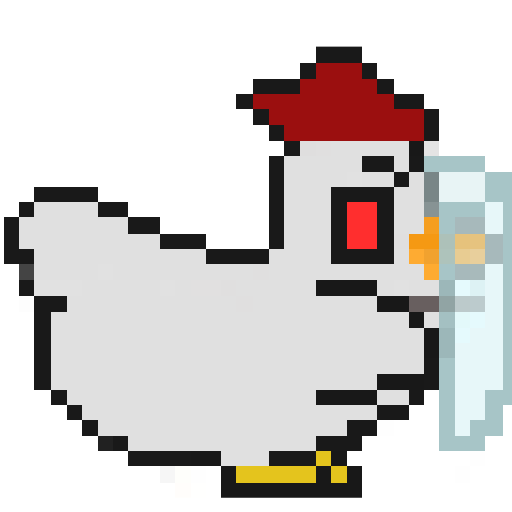
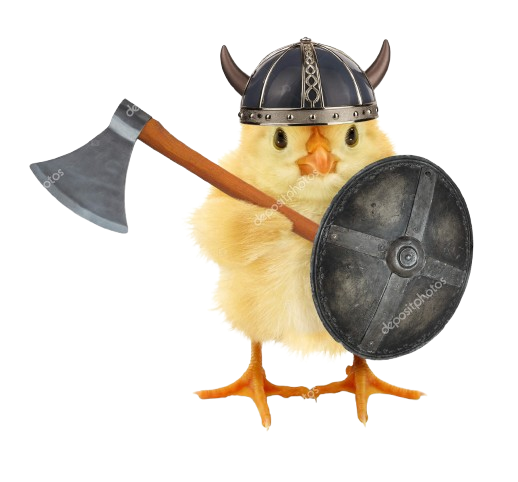
pause + fin de partie

diff --git a/src/main/java/app/Controller/Controller.java b/src/main/java/app/Controller/Controller.java
@@ -214,6 +214,10 @@ public class Controller implements Initializable {
             applicationPane.setOnKeyPressed(event -> {
                 if (event.getCode() == KeyCode.ESCAPE){
                     pause();
+                } else if (event.getCode() == KeyCode.ENTER){
+                    gameWorld.setTotalCoin((gameWorld.getTotalCoin().get() + 10));
+                } else if (event.getCode() == KeyCode.DELETE){
+                    gameWorld.setTotalCoin((gameWorld.getTotalCoin().get() - 10));
                 }
 
                 remetEnnemiTest(event);

diff --git a/src/main/java/app/Modele/GameWorld.java b/src/main/java/app/Modele/GameWorld.java
@@ -255,7 +255,6 @@ public class GameWorld {
             theEnd.set(1);
             return true;
         }
-
         return  false;
     }
 